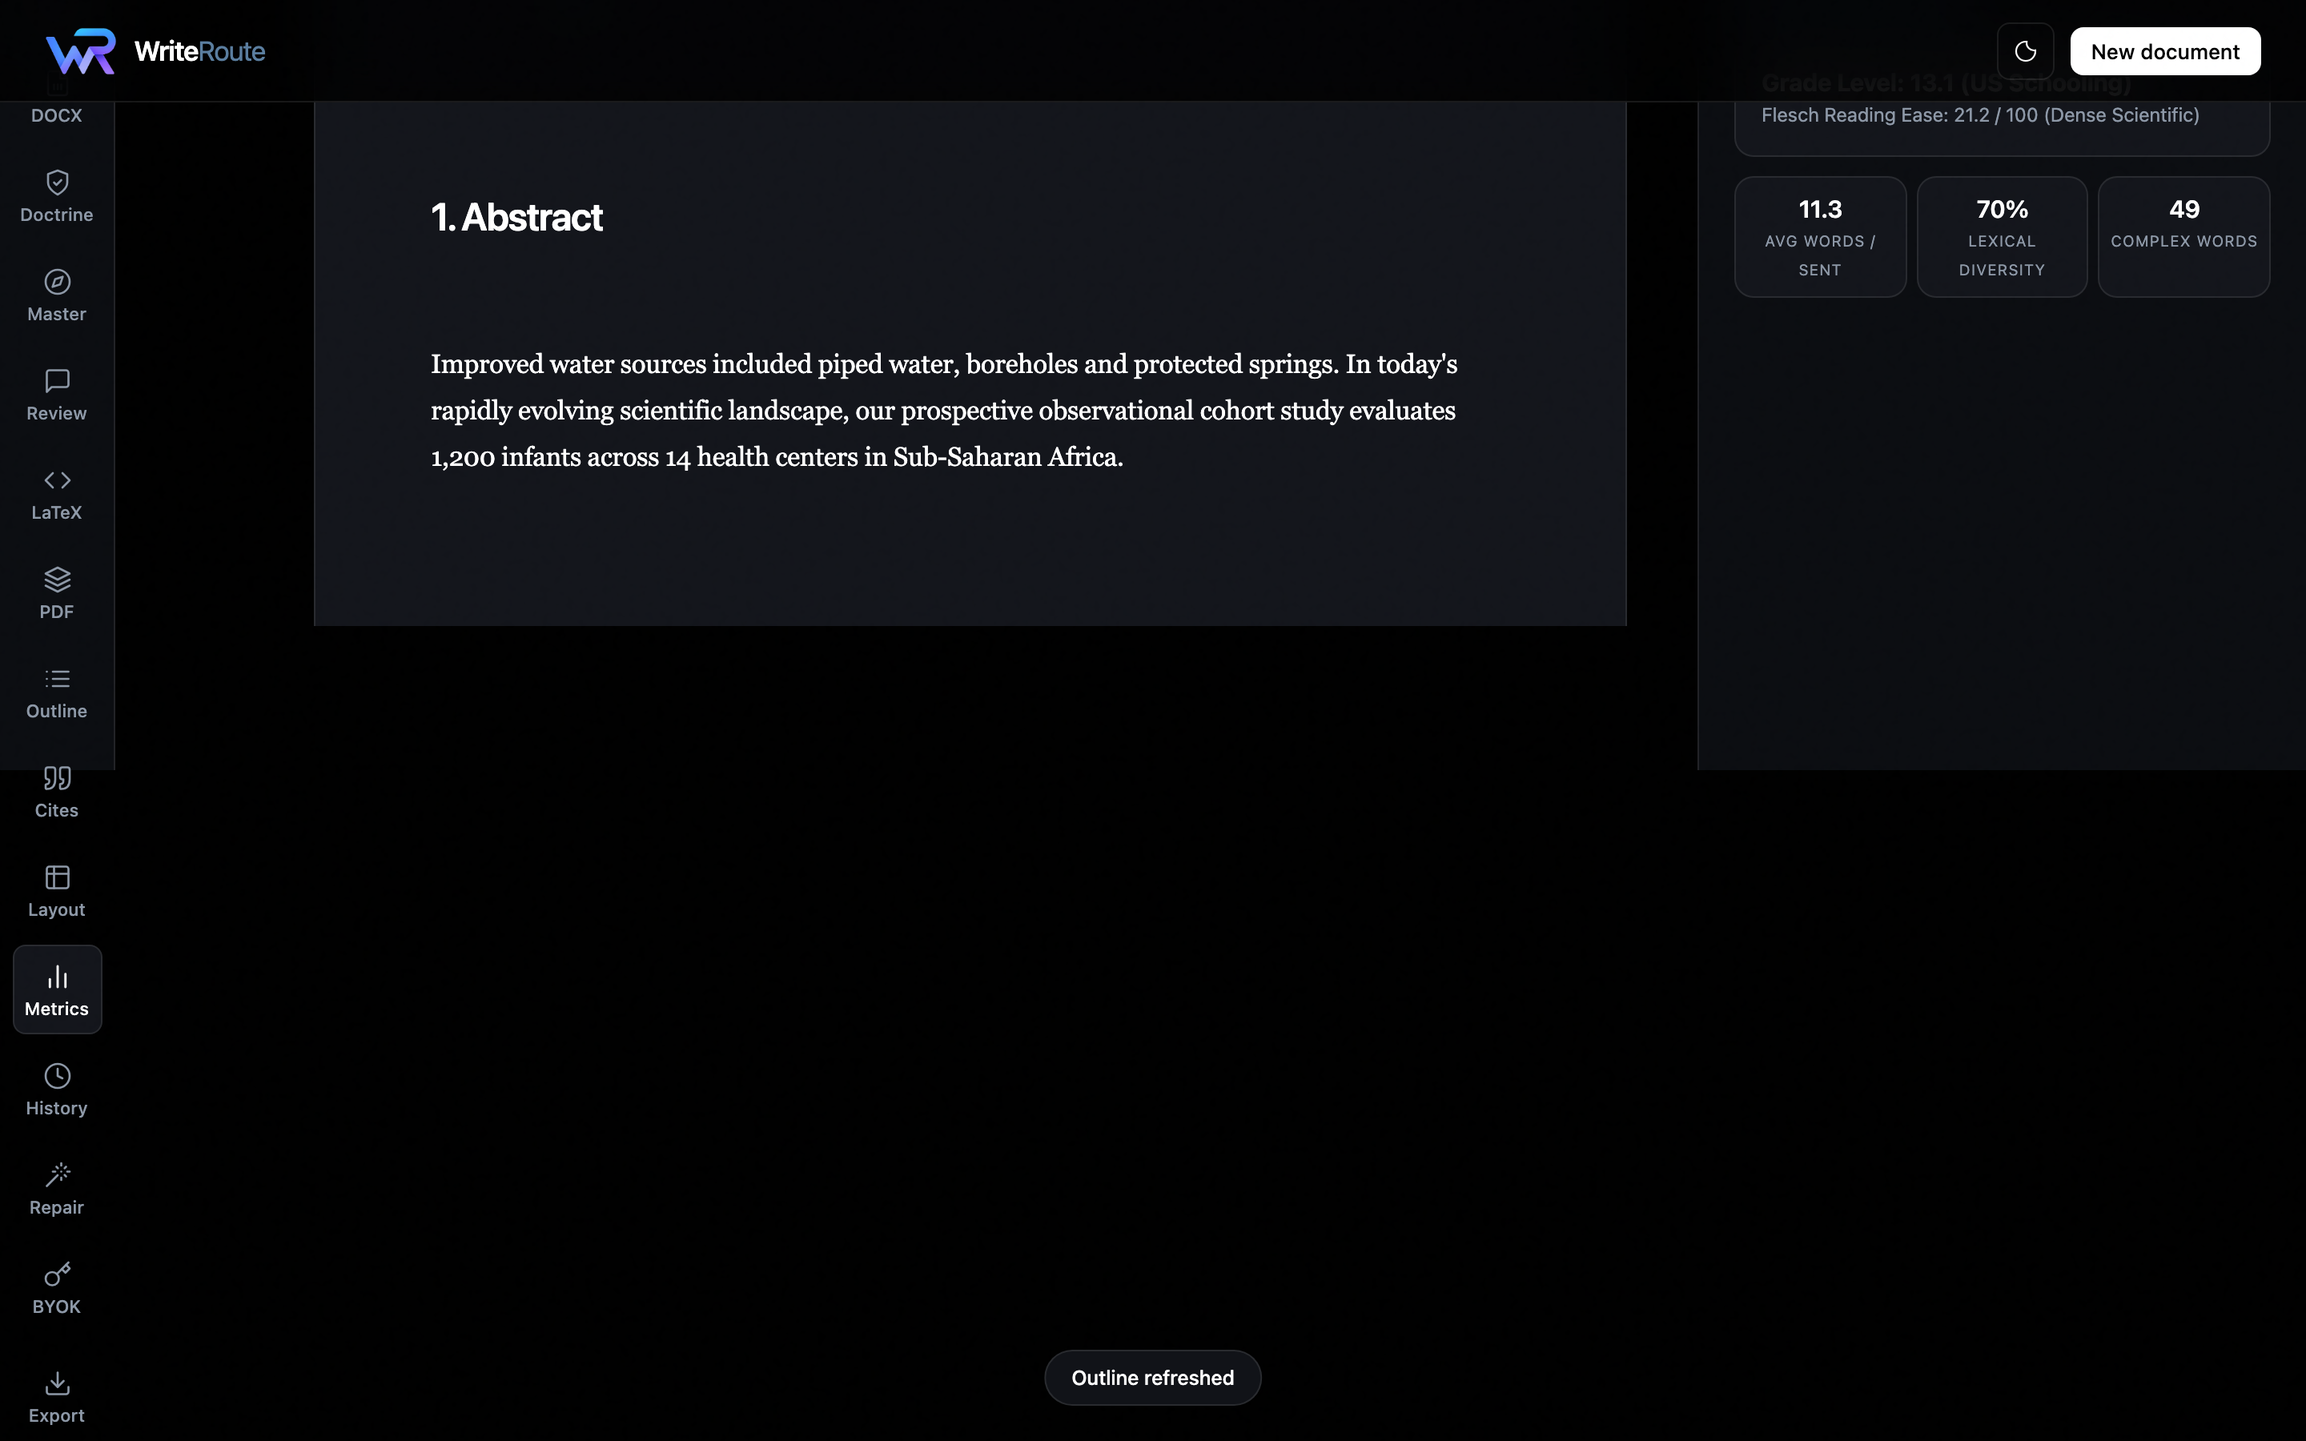
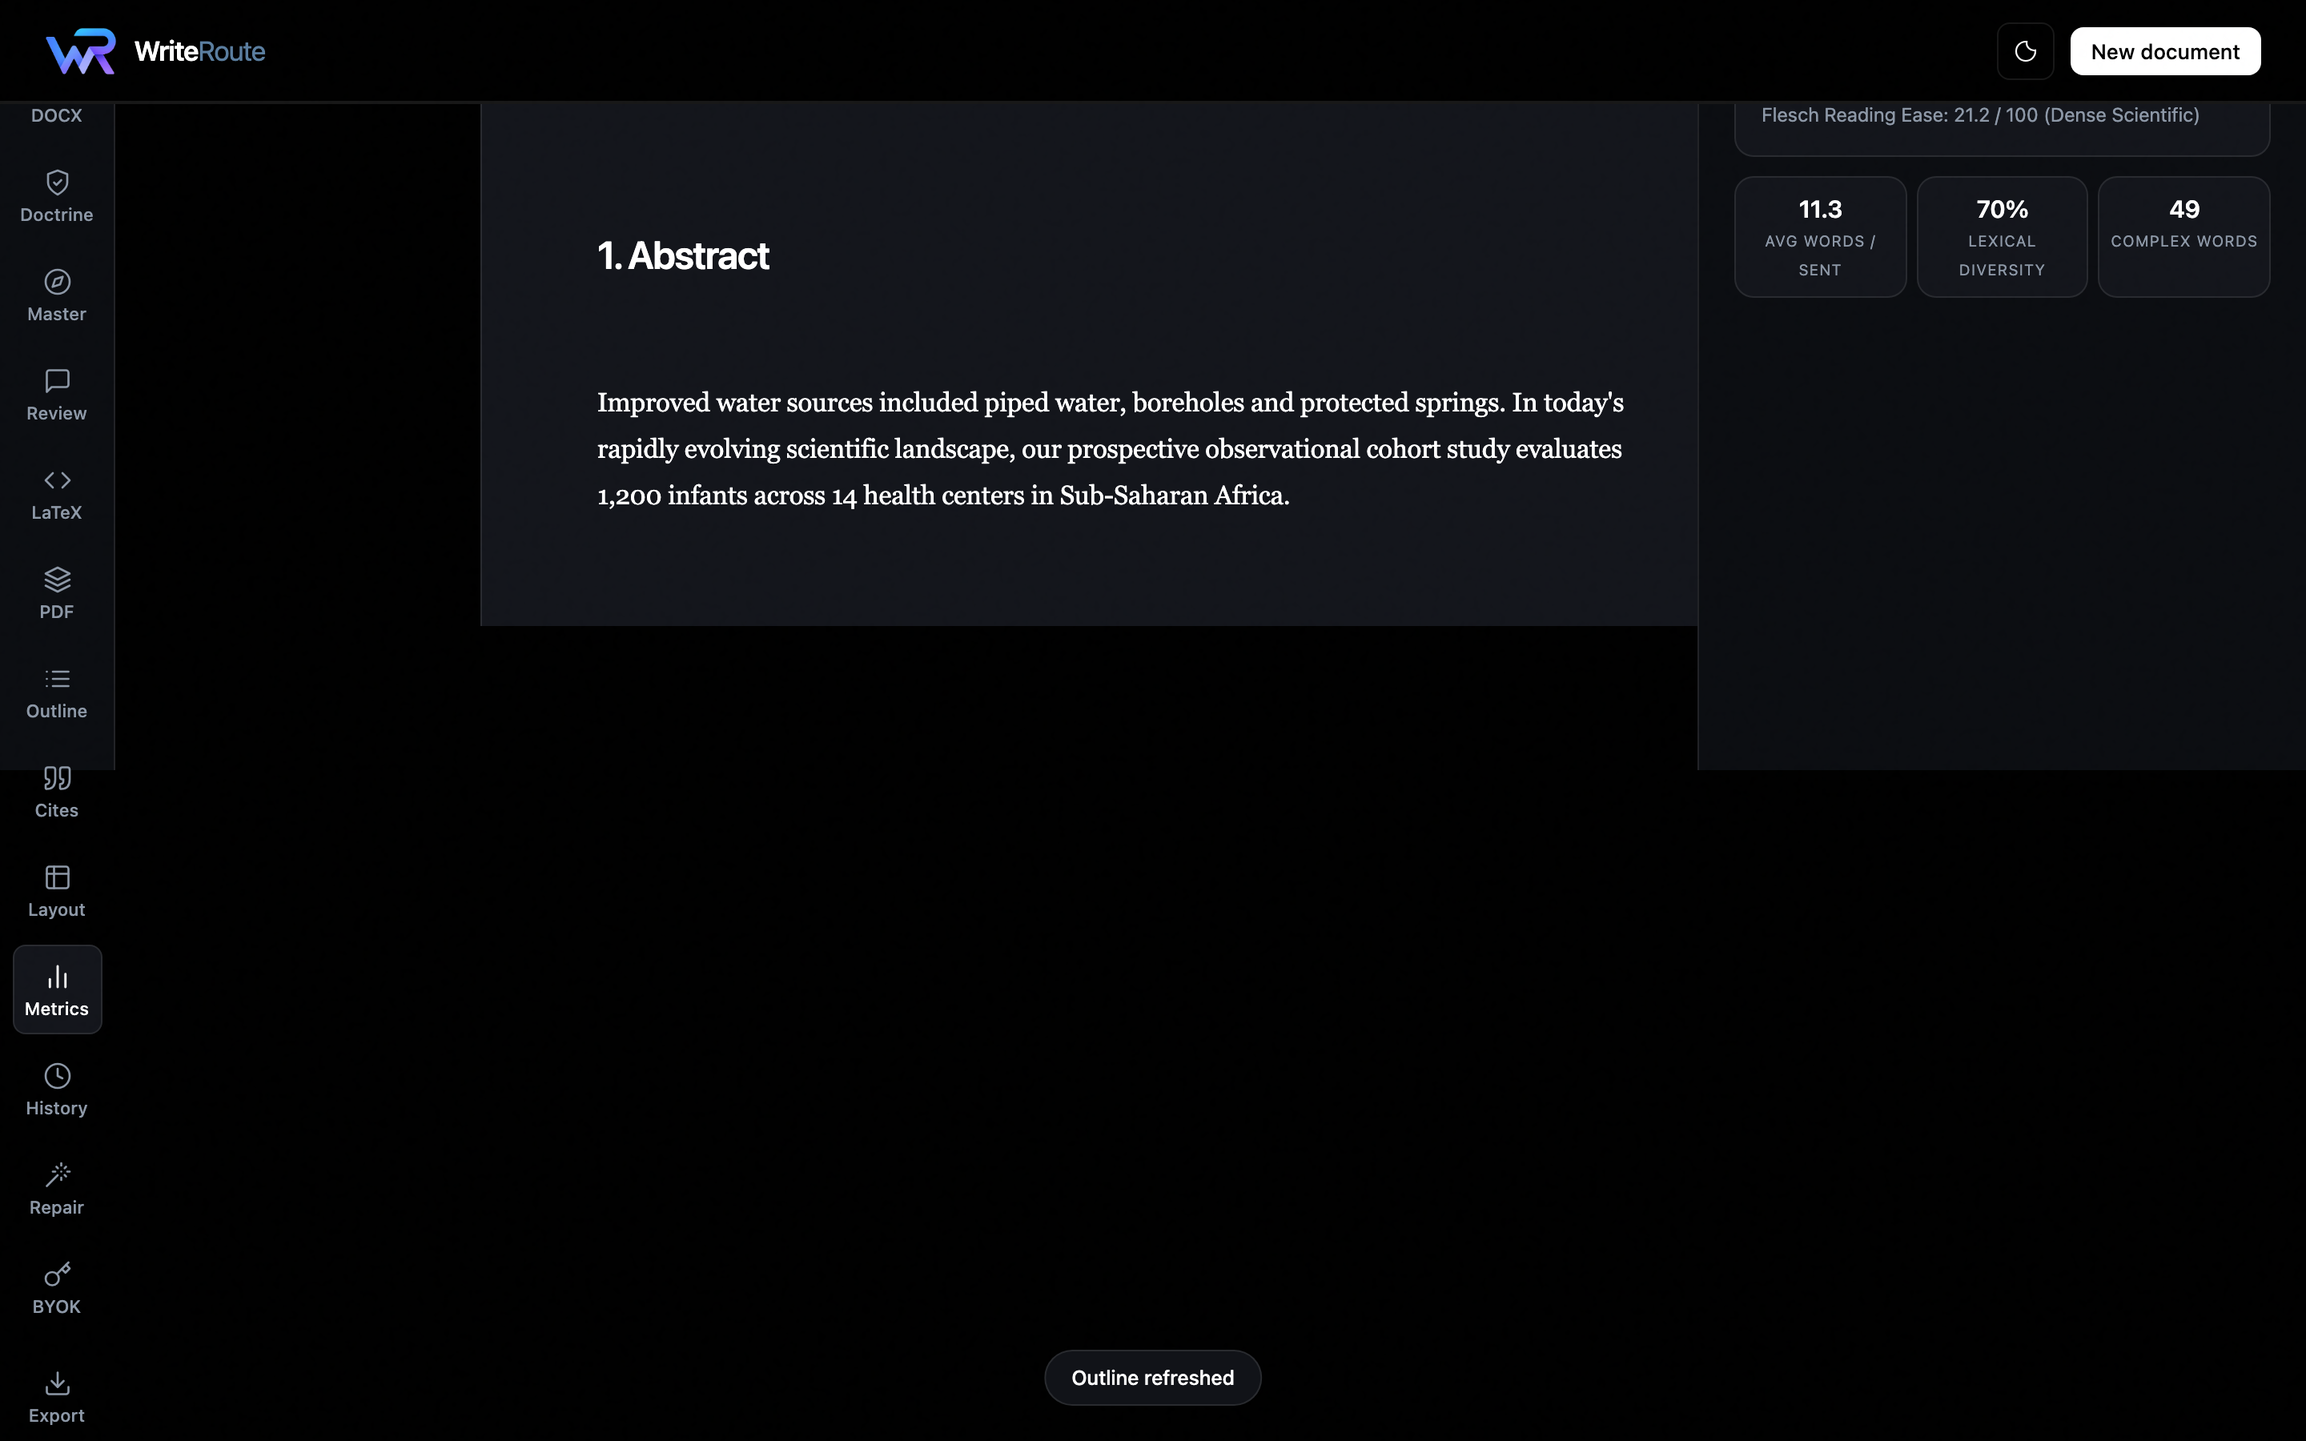
feat: implement dynamic document zoom & canvas scaling suite (50%-200%, pinch-to-zoom, hotkeys, width modes)

Changed region(s): [[0.125, 0.0622, 0.75, 0.4356], [0.25, 0.1556, 0.3438, 0.1867]]

diff --git a/static/studio.html b/static/studio.html
@@ -197,6 +197,11 @@
           <div class="menu">
             <button class="menu-title" id="menuViewBtn" aria-haspopup="true" aria-expanded="false">View</button>
             <div class="menu-list" id="menuView" role="menu">
+              <button role="menuitem" id="menuZoomIn">Zoom In<kbd>Ctrl++</kbd></button>
+              <button role="menuitem" id="menuZoomOut">Zoom Out<kbd>Ctrl+-</kbd></button>
+              <button role="menuitem" id="menuZoomReset">Reset Zoom (100%)<kbd>Ctrl+0</kbd></button>
+              <button role="menuitem" id="menuFitWidth">Fit to Width</button>
+              <div class="menu-sep"></div>
               <button role="menuitem" id="menuFocus">Focus mode</button>
               <button role="menuitem" id="menuInspector">Show or hide the inspector</button>
               <button role="menuitem" id="menuTheme">Light or dark</button>
@@ -238,11 +243,31 @@
           <span class="toolbar-divider"></span>
           <button id="latexSplitBtn" title="Overleaf Split-Screen LaTeX Source View"><svg class="toolbar-svg" viewBox="0 0 24 24"><polyline points="16 18 22 12 16 6"/><polyline points="8 6 2 12 8 18"/></svg> Split TeX</button>
           <button id="findToggleBtn" title="Find & Replace (Ctrl+F)"><svg class="toolbar-svg" viewBox="0 0 24 24"><circle cx="11" cy="11" r="8"/><line x1="21" y1="21" x2="16.65" y2="16.65"/></svg> Find</button>
+          <span class="toolbar-divider"></span>
+          <!-- Document Zoom Controls -->
+          <div class="zoom-controls" style="display:inline-flex;align-items:center;gap:2px">
+            <button id="zoomOutBtn" title="Zoom Out (Ctrl+-)"><svg class="toolbar-svg" viewBox="0 0 24 24"><line x1="5" y1="12" x2="19" y2="12"/></svg></button>
+            <select id="zoomSelect" title="Zoom Scale" style="height:26px;padding:1px 6px;font-size:11.5px">
+              <option value="0.5">50%</option>
+              <option value="0.75">75%</option>
+              <option value="0.9">90%</option>
+              <option value="1.0" selected>100%</option>
+              <option value="1.1">110%</option>
+              <option value="1.25">125%</option>
+              <option value="1.5">150%</option>
+              <option value="1.75">175%</option>
+              <option value="2.0">200%</option>
+              <option value="fit-width">Fit Width</option>
+            </select>
+            <button id="zoomInBtn" title="Zoom In (Ctrl++)"><svg class="toolbar-svg" viewBox="0 0 24 24"><line x1="12" y1="5" x2="12" y2="19"/><line x1="5" y1="12" x2="19" y2="12"/></svg></button>
+            <button id="zoomResetBtn" class="zoom-chip" title="Reset Zoom (Ctrl+0)">100%</button>
+          </div>
           <span class="toolbar-spacer"></span>
           <button data-command="undo" title="Undo"><svg class="toolbar-svg" viewBox="0 0 24 24"><path d="M3 7v6h6"/><path d="M21 17a9 9 0 0 0-9-9 9 9 0 0 0-6 2.3L3 13"/></svg></button>
           <button data-command="redo" title="Redo"><svg class="toolbar-svg" viewBox="0 0 24 24"><path d="M21 7v6h-6"/><path d="M3 17a9 9 0 0 1 9-9 9 9 0 0 1 6 2.3L21 13"/></svg></button>
           <button id="focusMode" title="Focus mode">Focus</button>
         </div>
+
 
 
 
@@ -284,18 +309,21 @@
               </div>
             </div>
 
-            <!-- WYSIWYG Manuscript Editor -->
+            <!-- WYSIWYG Manuscript Editor with Zoom Viewport -->
             <div class="manuscript-editor-wrapper" id="manuscriptEditorWrapper">
-              <article id="editor" class="editor" contenteditable="true" spellcheck="true" data-placeholder="Start writing, or upload a document…"></article>
-              <!-- Bottom Footnotes Section -->
-              <div id="footnotesArea" class="footnotes-area hidden">
-                <div class="footnotes-title">Footnotes</div>
-                <ol id="footnotesList" class="footnotes-list"></ol>
+              <div class="editor-viewport" id="editorViewport">
+                <article id="editor" class="editor" contenteditable="true" spellcheck="true" data-placeholder="Start writing, or upload a document…"></article>
+                <!-- Bottom Footnotes Section -->
+                <div id="footnotesArea" class="footnotes-area hidden">
+                  <div class="footnotes-title">Footnotes</div>
+                  <ol id="footnotesList" class="footnotes-list"></ol>
+                </div>
               </div>
             </div>
           </div>
         </div>
       </section>
+
 
 
 
@@ -466,12 +494,34 @@
               <option value="wide">Wide (1.5 in / 38.1 mm)</option>
             </select>
           </label>
+          <div class="section-title"><span>Canvas Zoom & Scaling</span></div>
+          <div style="display:flex;align-items:center;gap:8px;margin-bottom:10px">
+            <input type="range" id="panelZoomSlider" min="50" max="200" step="5" value="100" style="flex:1" />
+            <span id="panelZoomReadout" style="font-size:12px;font-weight:600;min-width:40px;text-align:right">100%</span>
+          </div>
+          <div class="route-actions" style="display:grid;grid-template-columns:repeat(4,1fr);gap:4px;margin-bottom:14px">
+            <button class="button secondary compact" data-zoom-btn="0.75">75%</button>
+            <button class="button secondary compact" data-zoom-btn="1.0">100%</button>
+            <button class="button secondary compact" data-zoom-btn="1.25">125%</button>
+            <button class="button secondary compact" data-zoom-btn="1.5">150%</button>
+          </div>
+
+          <label>Display Width Mode
+            <select id="canvasWidthModeSelect">
+              <option value="canvas-page" selected>Page Layout (820px Standard)</option>
+              <option value="canvas-fluid">Fluid Full-Width (95% Canvas)</option>
+              <option value="canvas-wide">Wide Manuscript (1080px)</option>
+              <option value="canvas-compact">Compact Focus (680px)</option>
+            </select>
+          </label>
+
           <div class="section-title"><span>Submission Word Goal</span></div>
           <div class="inline-fields">
             <label>Target Words<input type="number" id="targetGoalInput" value="3000" min="100" max="50000" step="100" /></label>
             <button class="button secondary compact" id="setGoalBtn" style="align-self:flex-end;margin-bottom:14px">Set Goal</button>
           </div>
         </section>
+
 
         <!-- Overleaf LaTeX IDE Panel -->
         <section class="panel" id="panel-latex">

diff --git a/static/app.js b/static/app.js
@@ -1230,14 +1230,18 @@ $('#restoreDiffConfirm')?.addEventListener('click', () => {
 $('#takeSnapshotBtn')?.addEventListener('click', () => takeSnapshot('Draft Milestone'));
 $('#menuSaveSnapshot')?.addEventListener('click', () => takeSnapshot('Manual Save'));
 
-// Global Hotkeys for Authoring
+// Global Hotkeys for Authoring & Zoom
 addEventListener('keydown', e => {
   if (!(e.metaKey || e.ctrlKey)) return;
   const k = e.key.toLowerCase();
   if (k === 's') { e.preventDefault(); takeSnapshot('Quick Save (Ctrl/Cmd+S)'); }
   if (k === 'f') { e.preventDefault(); toggleFindBar(); }
   if (k === 'h') { e.preventDefault(); toggleFindBar(true); $('#replaceInput')?.focus(); }
+  if (e.key === '=' || e.key === '+') { e.preventDefault(); setDocZoom(currentDocZoom + 0.1); }
+  if (e.key === '-' || e.key === '_') { e.preventDefault(); setDocZoom(currentDocZoom - 0.1); }
+  if (e.key === '0') { e.preventDefault(); setDocZoom(1.0); }
 });
+
 
 // Periodic auto-snapshot every 4 minutes if dirty
 setInterval(() => {
@@ -1436,6 +1440,111 @@ function updateGoalProgress() {
   const goalPct = $('#goalPct');
   if (goalPct) goalPct.textContent = `${pct}%`;
 }
+
+/* ------------------------------------------------------------------ Document Zoom & Scale Controller */
+let currentDocZoom = 1.0;
+
+function setDocZoom(val, announce = true) {
+  let scale = 1.0;
+  if (val === 'fit-width') {
+    const wrapper = $('#manuscriptEditorWrapper');
+    const ed = $('#editor');
+    if (wrapper && ed) {
+      const availWidth = wrapper.clientWidth - 48;
+      const edWidth = ed.offsetWidth || 820;
+      scale = Math.min(2.0, Math.max(0.5, Math.round((availWidth / edWidth) * 100) / 100));
+    }
+  } else if (val === 'fit-page') {
+    const wrapper = $('#manuscriptEditorWrapper');
+    const ed = $('#editor');
+    if (wrapper && ed) {
+      const availHeight = wrapper.clientHeight - 60;
+      const edHeight = ed.offsetHeight || 1100;
+      scale = Math.min(1.5, Math.max(0.4, Math.round((availHeight / edHeight) * 100) / 100));
+    }
+  } else {
+    scale = Math.max(0.4, Math.min(2.5, parseFloat(val) || 1.0));
+  }
+
+  currentDocZoom = Math.round(scale * 100) / 100;
+  const pctStr = `${Math.round(currentDocZoom * 100)}%`;
+  document.documentElement.style.setProperty('--doc-zoom', currentDocZoom.toString());
+
+  const zoomSelect = $('#zoomSelect');
+  if (zoomSelect) {
+    let found = false;
+    for (let opt of zoomSelect.options) {
+      if (Math.abs(parseFloat(opt.value) - currentDocZoom) < 0.02) {
+        zoomSelect.value = opt.value;
+        found = true;
+        break;
+      }
+    }
+    if (!found && typeof val === 'string' && (val === 'fit-width' || val === 'fit-page')) {
+      zoomSelect.value = val;
+    }
+  }
+
+  const zoomResetBtn = $('#zoomResetBtn');
+  if (zoomResetBtn) zoomResetBtn.textContent = pctStr;
+
+  const panelZoomSlider = $('#panelZoomSlider');
+  if (panelZoomSlider) panelZoomSlider.value = Math.round(currentDocZoom * 100);
+
+  const panelZoomReadout = $('#panelZoomReadout');
+  if (panelZoomReadout) panelZoomReadout.textContent = pctStr;
+
+  if (announce) showToast(`Document Zoom: ${pctStr}`);
+}
+
+$('#zoomSelect')?.addEventListener('change', e => {
+  setDocZoom(e.target.value);
+});
+
+$('#zoomInBtn')?.addEventListener('click', () => {
+  setDocZoom(currentDocZoom + 0.1);
+});
+
+$('#zoomOutBtn')?.addEventListener('click', () => {
+  setDocZoom(currentDocZoom - 0.1);
+});
+
+$('#zoomResetBtn')?.addEventListener('click', () => {
+  setDocZoom(1.0);
+});
+
+$('#panelZoomSlider')?.addEventListener('input', e => {
+  const v = parseInt(e.target.value) / 100;
+  setDocZoom(v, false);
+});
+
+$$('[data-zoom-btn]').forEach(btn => {
+  btn.addEventListener('click', () => {
+    const v = parseFloat(btn.getAttribute('data-zoom-btn')) || 1.0;
+    setDocZoom(v);
+  });
+});
+
+$('#canvasWidthModeSelect')?.addEventListener('change', e => {
+  editor.classList.remove('canvas-page', 'canvas-fluid', 'canvas-wide', 'canvas-compact');
+  editor.classList.add(e.target.value);
+  showToast(`Canvas layout: ${e.target.options[e.target.selectedIndex].text}`);
+});
+
+$('#menuZoomIn')?.addEventListener('click', () => setDocZoom(currentDocZoom + 0.1));
+$('#menuZoomOut')?.addEventListener('click', () => setDocZoom(currentDocZoom - 0.1));
+$('#menuZoomReset')?.addEventListener('click', () => setDocZoom(1.0));
+$('#menuFitWidth')?.addEventListener('click', () => setDocZoom('fit-width'));
+
+// Ctrl + Wheel / Trackpad pinch to Zoom
+$('#manuscriptEditorWrapper')?.addEventListener('wheel', e => {
+  if (e.ctrlKey || e.metaKey) {
+    e.preventDefault();
+    const delta = e.deltaY < 0 ? 0.05 : -0.05;
+    setDocZoom(currentDocZoom + delta, false);
+  }
+}, { passive: false });
+
 
 /* ------------------------------------------------------------------ Overleaf LaTeX Suite */
 let isLatexSplitOpen = false;

diff --git a/static/styles.css b/static/styles.css
@@ -115,9 +115,12 @@
    than the viewport and the page scrolled as a whole instead of the editor scrolling
    inside its pane. minmax(0, 1fr) constrains the row; min-height:0 lets the children
    actually shrink, which a grid item will not do by default. */
-.workspace { grid-template-rows: minmax(0, 1fr); }
+.workspace { grid-template-rows: minmax(0, 1fr); overflow: hidden; }
 .workspace > * { min-height: 0; }
+.document-shell { min-width: 0; overflow: hidden; position: relative; z-index: 1; }
 .document-shell.has-menubar { grid-template-rows: auto auto auto auto minmax(0, 1fr); }
+.inspector { position: relative; z-index: 15; overflow-y: auto; }
+
 
 /* Slide-down Find & Replace Bar */
 .find-replace-bar {
@@ -535,10 +538,23 @@
   flex: 1;
   display: flex;
   flex-direction: column;
+  align-items: center;
   overflow-y: auto;
+  overflow-x: auto;
+  padding: 24px 20px 120px;
+}
+.editor-viewport {
+  display: flex;
+  flex-direction: column;
+  align-items: center;
+  width: 100%;
+  max-width: 100%;
+  transform-origin: top center;
+  transform: scale(var(--doc-zoom, 1.0));
+  transition: transform 0.12s cubic-bezier(0.16, 1, 0.3, 1);
 }
 
-/* Page Setup Variations */
+/* Page Setup & Width Variations */
 .editor.page-letter {
   max-width: 8.5in;
   min-height: 11in;
@@ -557,6 +573,41 @@
 .editor.margins-wide {
   padding: 64px 96px;
 }
+.editor.canvas-fluid {
+  max-width: 95%;
+  width: 95%;
+}
+.editor.canvas-wide {
+  max-width: 1080px;
+  width: 100%;
+}
+.editor.canvas-compact {
+  max-width: 680px;
+  width: 100%;
+}
+.editor.canvas-page {
+  max-width: 820px;
+  width: 100%;
+}
+
+.zoom-chip {
+  background: var(--surface-solid);
+  border: 1px solid var(--line);
+  color: var(--text);
+  border-radius: var(--radius-buttons);
+  cursor: pointer;
+  padding: 3px 7px;
+  font-size: 11.5px;
+  font-weight: 600;
+  min-width: 44px;
+  text-align: center;
+  transition: 0.15s ease;
+}
+.zoom-chip:hover {
+  border-color: var(--line2);
+  background: var(--surface);
+}
+
 
 /* SVG Icons and Pure Vector Assets */
 .rail-svg {

diff --git a/scripts/capture_ui.py b/scripts/capture_ui.py
@@ -218,6 +218,16 @@ with sync_playwright() as p:
     print("Saved assets/scientific_tables_ui.png")
 
 
+    # Document Zoom & Canvas Scaling
+    page.click('.rail-button[data-panel="pagesetup"]')
+    page.select_option('#zoomSelect', '1.25')
+    time.sleep(0.6)
+    page.screenshot(path=str(ASSETS / "document_zoom_scaling_ui.png"))
+    print("Saved assets/document_zoom_scaling_ui.png")
+
+    # Reset zoom to 1.0
+    page.select_option('#zoomSelect', '1.0')
+
     # Writing Master Panel
     page.click('.rail-button[data-panel="writingmaster"]')
     page.click('#runAiwdAuditBtn')
@@ -226,6 +236,7 @@ with sync_playwright() as p:
     print("Saved assets/writing_master_ui.png")
 
     browser.close()
+
 
 
 
